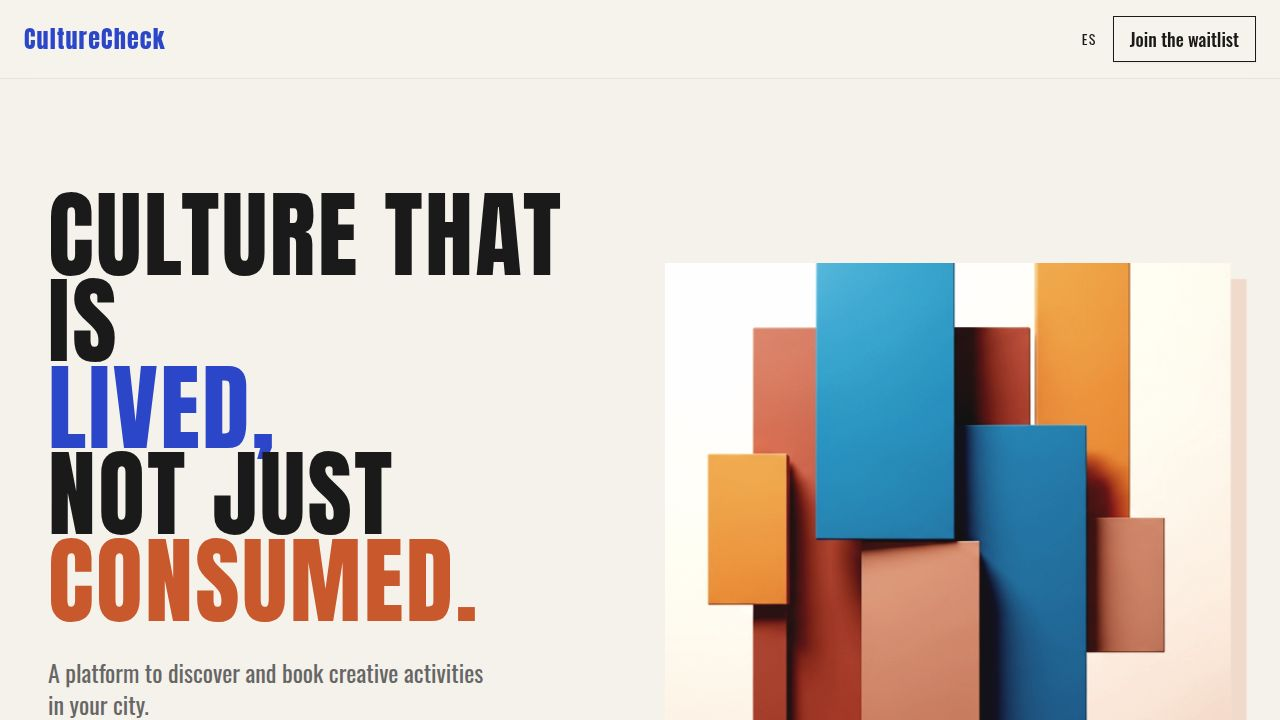
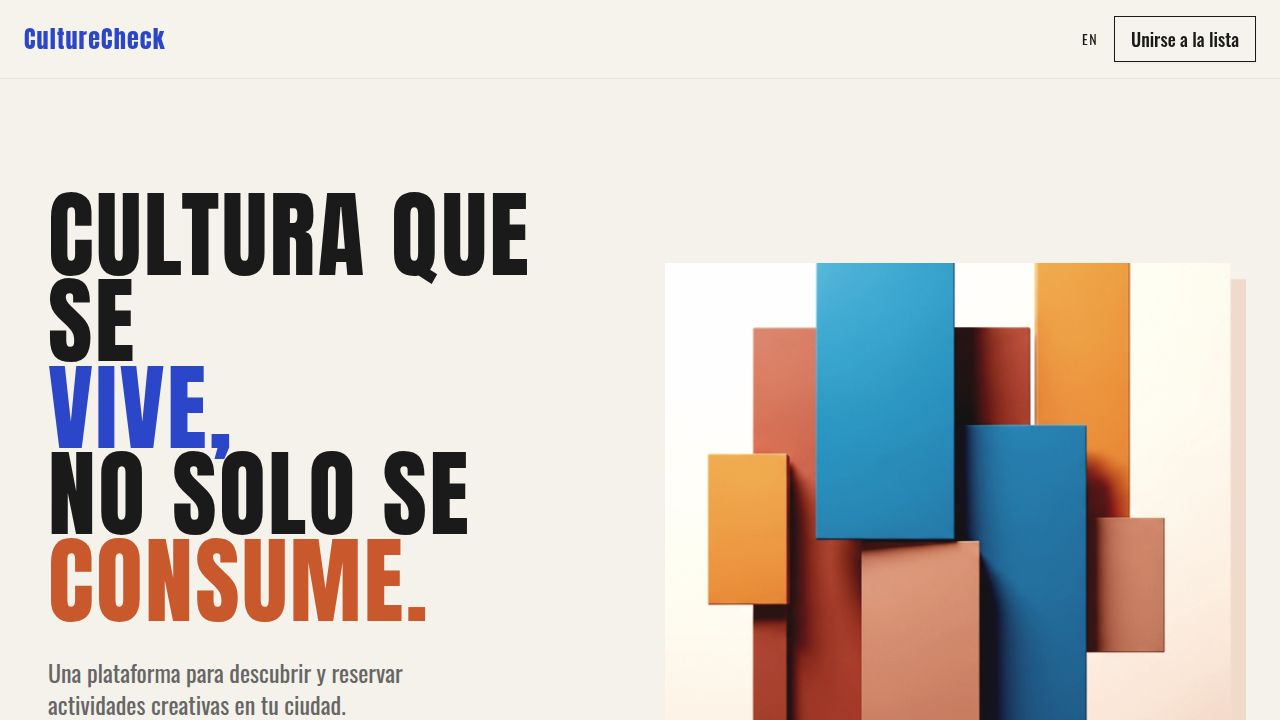
Set the default language to Spanish for the application
Update the initial state of the language hook in Home.tsx to "es" to default the application to Spanish.

Replit-Commit-Author: Agent
Replit-Commit-Session-Id: 1dd1eb44-f037-4274-95c3-9adc50c991ec
Replit-Commit-Checkpoint-Type: full_checkpoint
Replit-Commit-Event-Id: 83ad8be4-b95e-4740-9b9e-6df2bb92a9db
Replit-Commit-Screenshot-Url: https://storage.googleapis.com/screenshot-production-us-central1/9532ab90-1a89-4eb9-afa0-3acbb4650984/1dd1eb44-f037-4274-95c3-9adc50c991ec/O7eLySr
Replit-Helium-Checkpoint-Created: true

diff --git a/client/src/pages/Home.tsx b/client/src/pages/Home.tsx
@@ -9,7 +9,7 @@ import paintingImage from "@/assets/images/painting.png";
 
 export default function Home() {
   const [email, setEmail] = useState("");
-  const [lang, setLang] = useState<"en" | "es">("en");
+  const [lang, setLang] = useState<"en" | "es">("es");
 
   const content = {
     en: {
